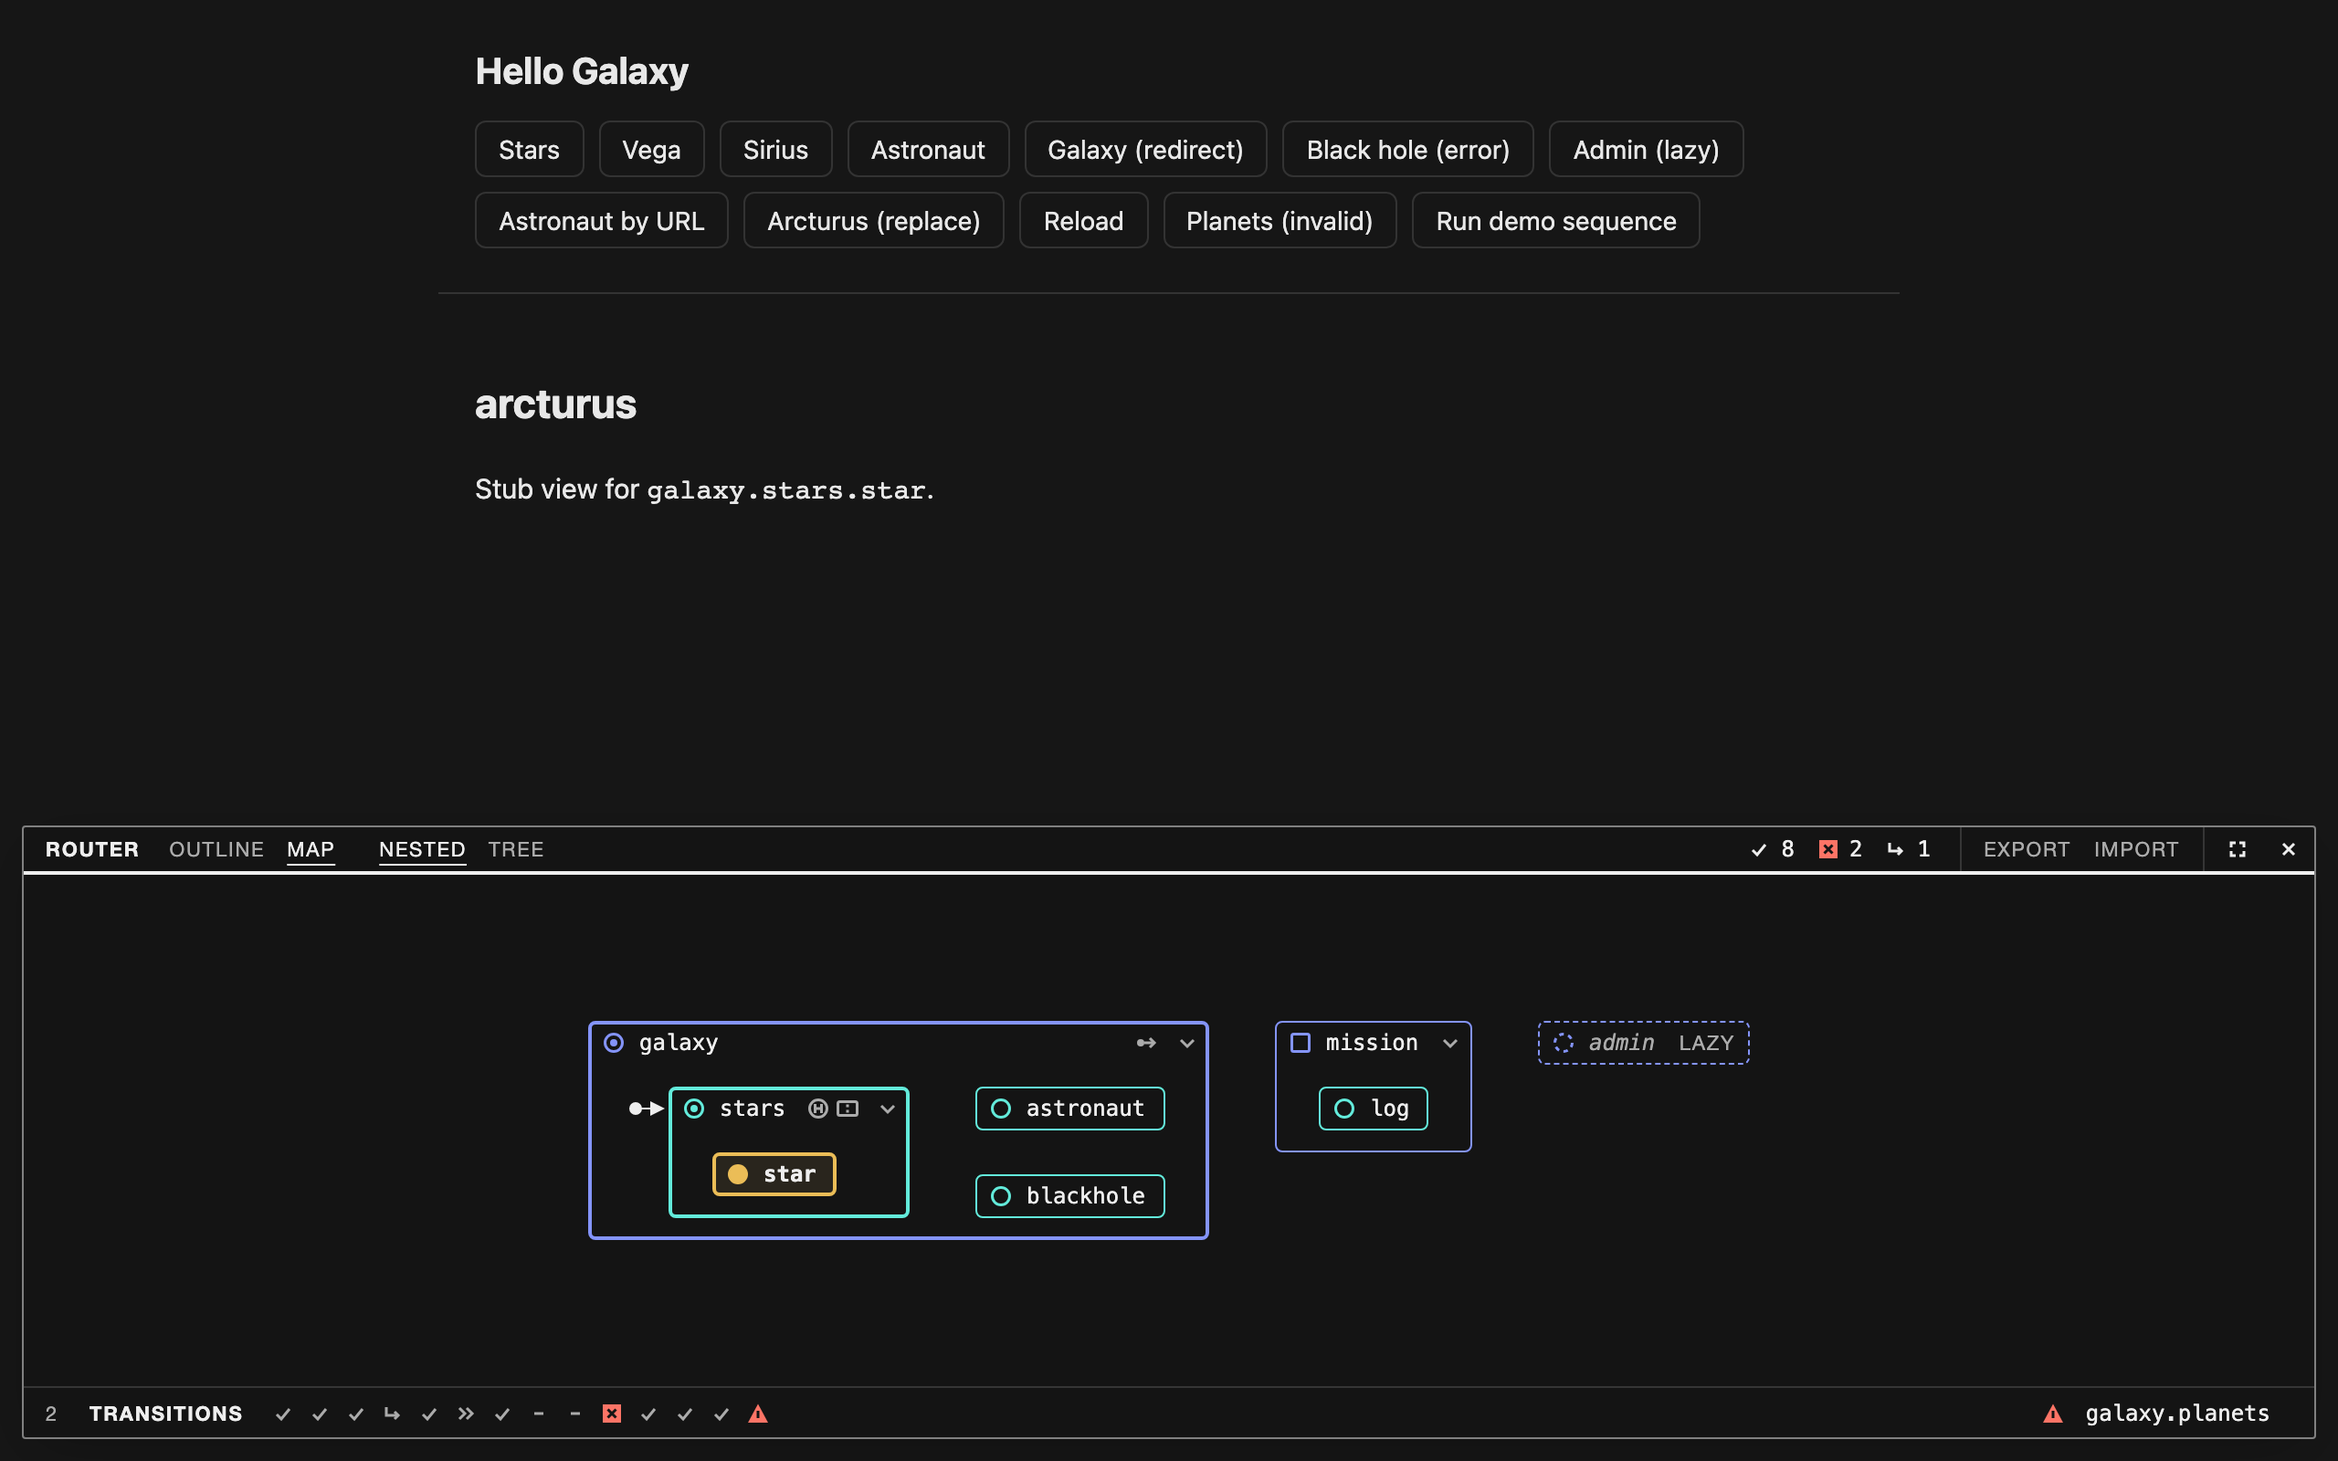
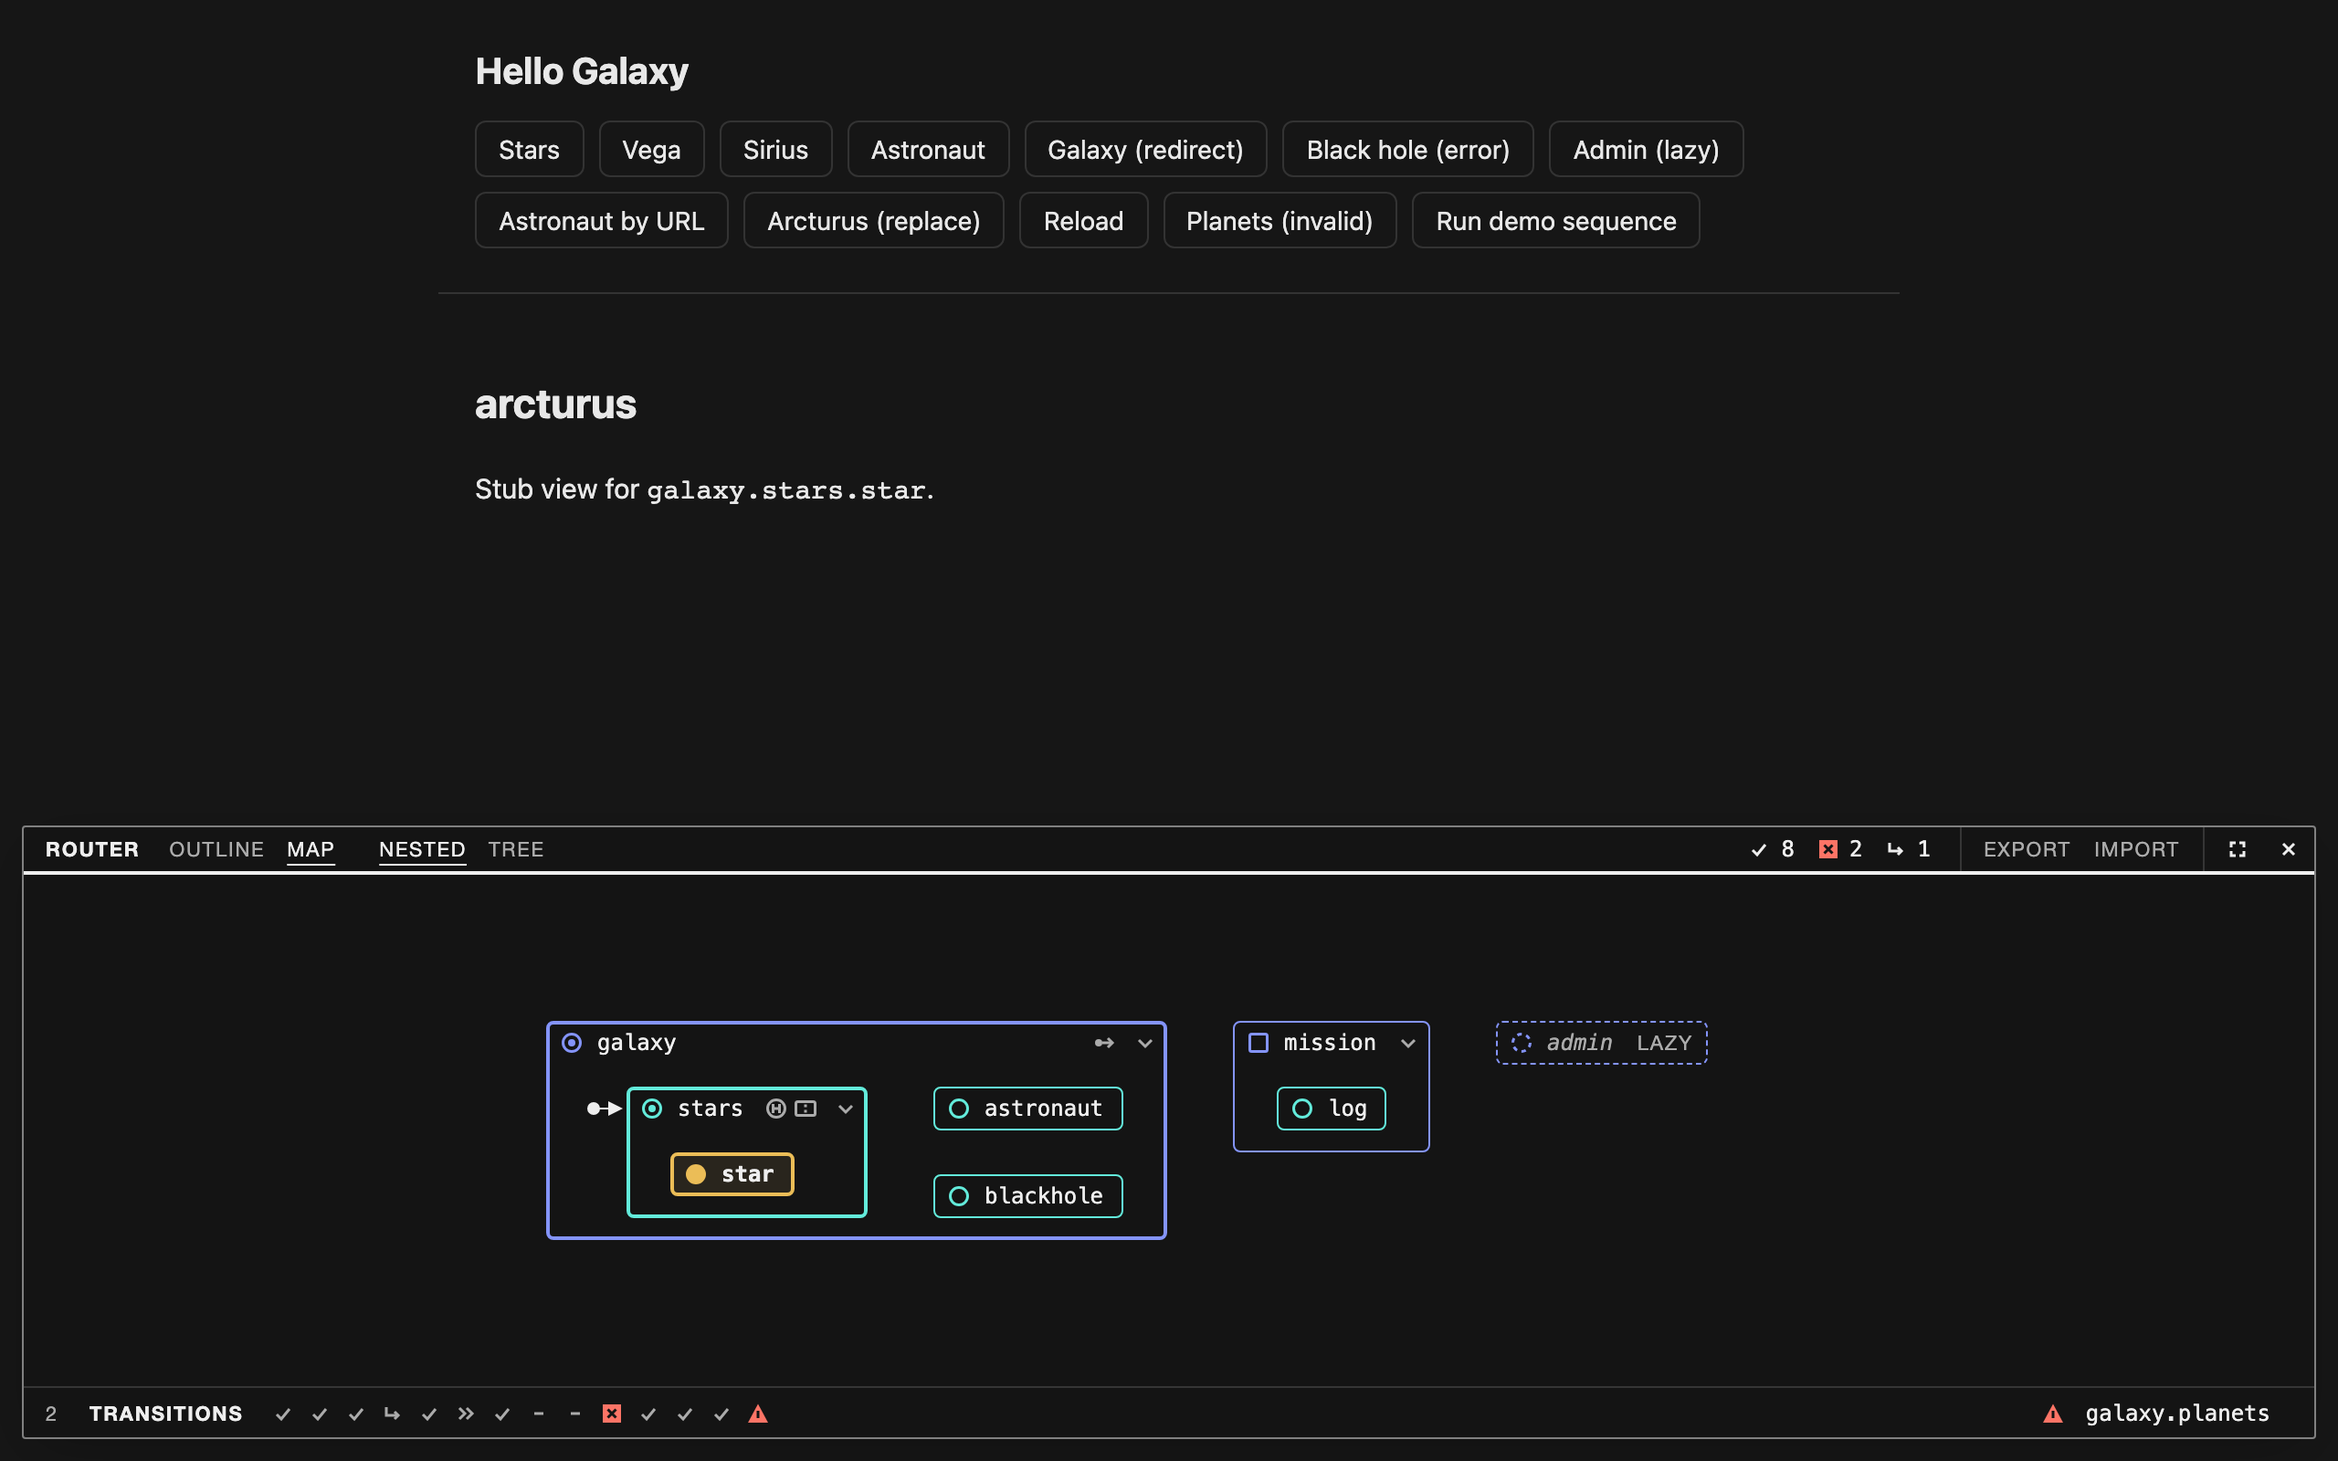
docs(ui-router-devtools): retake the proposal screenshots and record the Map as it is now
map.md records the maximised steps, the popover's column, the size motion,
and what a fix for busy leaves and compound-to-child edges needs. The capture
script gains a maximised Map shot.

🤖 Generated with [Claude Code](https://claude.com/claude-code)

diff --git a/packages/ui-router-devtools/scripts/shots.ts b/packages/ui-router-devtools/scripts/shots.ts
@@ -137,6 +137,19 @@ const shots: Shot[] = [
     },
   },
   {
+    name: '3-max-map-state',
+    width: 1280,
+    open: true,
+    axe: true,
+    setup: async (page) => {
+      await showMap(page);
+      await page.locator(`${TAG} .icon.max`).click();
+      await page
+        .locator(`${TAG} .box[data-name="galaxy.stars.star"] > .head`)
+        .click({ position: { x: 14, y: 12 } });
+    },
+  },
+  {
     name: '2-dock-outline-fault',
     width: 1280,
     open: true,

diff --git a/docs/visualizer-proposal/map.md b/docs/visualizer-proposal/map.md
@@ -14,18 +14,22 @@ direction, and [devtools scope](devtools.md) the package's wider plans.
   one edge per pair of states, with line weight for the count.
 - **The diagram owns the panel.** On the Map tab in the wide dock the
   transition log is a strip of outcome glyphs, and the inspector is a popover
-  beside the diagram. The maximised panel shows the full log and inspector
-  below the diagram. On the sheets the Map takes the Outline's place above the
-  log.
+  beside the diagram. The maximised panel gives the diagram three fifths of
+  its height and shows the full log and inspector below it. On the sheets the
+  Map takes the Outline's place above the log.
 - **Boxes keep their natural size.** A leaf is its label and padding. A
   compound shrink-wraps its children. Nothing stretches to fill the viewport;
-  the diagram sits in the middle of it.
+  the diagram sits in the room [left for it](#the-inspector-popover).
+- **A selection moves nothing.** Selecting a state draws its edges and shows
+  the inspector, and every box stays where it was, so nothing shifts under
+  the pointer.
 - **Colour is identity, until a transition is in focus.** See
   [Modes](#modes).
 - **Red means fault.** A failed transition's edge and the state that failed
   are red, and no identity colour is near it.
-- **Type stays at 12px.** The layout may shrink to the caption size and no
-  further, and it never enlarges.
+- **Type is 12px in the dock.** The layout may shrink to the caption size and
+  no further. The maximised panel is the one place it enlarges, in whole
+  steps of the [spacing system](#spacing), never by a scale factor.
 
 ## Modes
 
@@ -134,9 +138,11 @@ The packer places every box, and CSS only draws them:
    prefers a split that fits the viewport to a nearer one that does not.
 4. A compound is its header, its rows and its padding, and no wider than the
    wider of the two needs.
-5. If the root still does not fit, step down the ladder below.
-6. The diagram sits in the middle of the viewport at that size. The room left
-   over frames it evenly; no box takes it.
+5. If the root still does not fit, step down the ladder below. In the
+   maximised panel, first step up it.
+6. The diagram sits in the middle of the viewport at that size, or as near
+   the middle as leaves [the popover's column](#the-inspector-popover) free.
+   The room left over frames it; no box takes it.
 
 The rule comes from ELK's `rectpacking`, which keeps input order, stacks short
 boxes and aims for an aspect ratio. Area-weighted treemaps do not fit: they
@@ -148,7 +154,8 @@ tree and the stress tree, in the dock (1230 by 256) and the maximised panel
 (1230 by 372): no leaf is wider than its label needs or than the maximum; no
 compound is wider than its header and rows need; in every compound the boxes
 cover at least half of the rows' bounding box; and the diagram fits, with a
-width over height between 0.6 and 1.6 times the viewport's.
+width over height between 0.6 and 1.6 times the viewport's. The two larger
+steps are held to the second and third, for the sample tree.
 
 ### Spacing
 
@@ -178,14 +185,40 @@ middle of a 24px one.
 At the caption-size rung the header is 20px, the padding 16px and 8px, the
 leaf gaps 16px and 12px, and the group gaps 24px and 16px.
 
+The maximised panel has two larger steps, each the table above in proportion
+to its type, still on the 4px grid:
+
+| Step  | Type | Header | Compound padding | Leaf gaps | Group gaps | Leaf inline size |
+| ----- | ---- | ------ | ---------------- | --------- | ---------- | ---------------- |
+| Dock  | 12px | 24px   | 24px, 12px       | 24px      | 36px       | 56 to 208px      |
+| Roomy | 16px | 32px   | 32px, 16px       | 32px      | 48px       | 76 to 276px      |
+| Large | 20px | 40px   | 40px, 20px       | 40px      | 60px       | 92 to 348px      |
+
+A header's glyphs, marks, padding and fold button grow by the same factor,
+from one custom property on the diagram. Edge strokes, arrowheads and the
+router's margins stay as they are in the dock.
+
+A scale on the whole diagram was weighed against the steps. A scale fills any
+viewport exactly, and gives type and borders at sizes that are on no grid; the
+steps keep every distance a multiple of 4px and the type at three sizes. A
+different target shape for the packer was also weighed: the root already aims
+for the viewport's shape, and the sample trees are wider than the maximised
+viewport is, so a taller target would give more rows of boxes that are still
+the dock's size.
+
 ### When it does not fit
 
-The layout starts with every compound open and stops at the first step that
-fits. Each step keeps the ones before it:
+In the maximised panel the layout first tries the large step and then the
+roomy one, with every compound open, and takes the first that fits with a
+tenth of the viewport's width and height to spare. The dock never enlarges.
 
-1. Collapse compounds off the active path and outside the selection to one box
-   with a count of the states inside. Opening or closing a box by hand
-   overrides this for that box.
+Otherwise the layout starts at the dock's step with every compound open and
+stops at the first step that fits. Each step keeps the ones before it:
+
+1. Collapse compounds off the active path to one box with a count of the
+   states inside. A selected transition's states and the ancestors of a
+   selected state stay open; the selected box itself stays as it is drawn.
+   Opening or closing a box by hand overrides this for that box.
 2. Merge a compound with its only visible child, when that child is also a
    compound, into one header.
 3. Truncate a name segment longer than 24 characters in the middle. The full
@@ -194,8 +227,9 @@ fits. Each step keeps the ones before it:
 5. Fall back to the node-link tree.
 
 A milder step is restored only once it fits with about 10% of the inline size
-to spare, so a resize does not flicker between layouts. A change to the tree
-or the selection starts again from the top. Below 560px of inline size the
+to spare, so a resize does not flicker between layouts. A change to the tree,
+or a selection that opens a compound, starts again from the top; a selection
+that opens nothing keeps the layout it has. Below 560px of inline size the
 nested layout is not offered: at that width it is the Outline with borders.
 
 Re-rooting at the deepest compound on the active path, with its ancestors as a
@@ -211,24 +245,44 @@ Pan, zoom and a minimap are left out.
 
 ### The inspector popover
 
-The popover is placed from the packed rects. It tries beside the selected
-box, level with its top or its bottom, then the corners of the panel, and
-takes the place that covers least: a drawn edge or a box an edge ends at
-counts twenty times a pill. When the diagram and the popover fit side by
-side, the diagram moves over to the middle of the room the popover leaves, so
-neither covers the other. In a dock too narrow for both, the popover covers
-pills before it covers an edge.
+The popover is 296px wide, and its column, with a 12px margin either side, is
+320px. Whether the dock has that column to spare is decided by the diagram's
+size, before anything is selected:
+
+- **Room for a column either side:** the diagram is centred, and the popover
+  takes the column at the end.
+- **Room for one column:** the diagram sits as near the middle as leaves the
+  column free at the end, so the room at its start shrinks first. The popover
+  takes that column.
+- **No room:** the diagram is centred and the popover goes over it. It tries
+  beside the selected box, level with its top or its bottom, then the corners
+  of the panel, then every 12px along the panel's top and bottom, and takes
+  the place that covers least. The selected box counts a thousand times a
+  pill, and a drawn edge or a box an edge ends at twenty times, so the
+  selection is covered only when no place clears it.
+
+In the first two the popover is always in the same place, at the end of the
+dock, and neither a first selection nor a change of selection moves a box.
+Reserving the column at every width was weighed and left out: the stress tree
+needs the dock's whole width. So was a start-aligned diagram, which leaves
+the same column free and reads as a document, not a drawing.
 
 ## Motion
 
 A box changes place and size between modes, and the eye follows a state
 through the change by its colour and its movement.
 
-- **Boxes move.** A re-pack on resize, a collapse or an expand, a change of
-  rung, the switch between nested boxes and the tree, and the dock becoming
-  the maximised panel all move the same states. Each state's element starts
-  where the state was and eases to its new place in 200ms, on
-  `--uird-ease-out`. A box that was not drawn before fades in.
+- **Boxes move and change size.** A re-pack on resize, a collapse or an
+  expand, a change of rung and the switch between nested boxes and the tree
+  all move the same states. Each state's element starts where and as large
+  as the state was and eases to its new place and size in 200ms, on
+  `--uird-ease-out`. A box that was not drawn before fades in, and is
+  clipped by its parent until the parent has grown to hold it. A header
+  keeps its final width through the change, so no name is elided on the way.
+- **The diagram changes size as one object.** Between the dock and the
+  maximised panel the type step changes, so the whole diagram scales from
+  its old outline to its new one, about its own middle on the block axis,
+  and its boxes ride it. The panel itself changes size at once.
 - **Edges draw.** An edge draws in from its start in 240ms and withdraws
   toward its end in 160ms. After a re-pack the edges wait the 200ms the boxes
   take, and then draw, so none is stranded beside a moving box.
@@ -240,8 +294,13 @@ The mechanism is FLIP on the Web Animations API. Before a render that changes
 the Map's geometry the panel reads where each state's element is drawn, and
 after it reads where each now is and animates a `transform` from the
 difference. A child's shift is taken relative to its parent's, since it rides
-its parent's transform. Only `transform` and `opacity` animate, and nothing
-waits on an animation. An interrupted move starts from what is on screen: the
+its parent's transform. Every element is read before any is animated. A box
+whose size changed also animates `width` and `height`; the boxes are
+absolutely placed, so that layout is theirs alone. Opening and closing a
+compound in the stress tree's dock, with 20 to 26 boxes drawn, the frame that
+re-packs took 21 to 27ms and every frame after it 16.7ms, in headless
+Chromium. A change of type step animates one `transform` with a scale on the
+diagram's root instead. Nothing waits on an animation. An interrupted move starts from what is on screen: the
 first read is of the drawn position, mid-flight included, and the earlier
 animation is cancelled before the second.
 
@@ -329,6 +388,20 @@ transition, 2px for two or three and 3px for four or more.
 
 The constraint solver `libavoid` uses for nudging, crossing minimisation and
 labels on lines are left out.
+
+Two things read poorly and are left as they are. A leaf with four or more
+edges is a knot: a 24px end holds two ports, the pairs take a side each, and
+their leads share the 12px gap under the parent's header. An edge between a
+compound and its own child is a stub from the child to the nearest border of
+the compound, met from inside. Lining that port up with the child was tried:
+the stub is then straight, and it moves to whichever border is nearest, which
+pushed the self-loop into the corner the other edges already use. A fix needs
+three things together: one trunk for the edges that share an end, so a leaf
+has one port per neighbour instead of one per edge; a port budget that
+counts a leaf's four sides before any edge is routed, instead of relieving a
+side after the fact; and a template for the compound and child pair that
+ends on the compound's header, which is the part of it that reads as the
+state.
 
 ### WebAssembly
 

diff --git a/docs/visualizer-proposal/README.md b/docs/visualizer-proposal/README.md
@@ -269,8 +269,9 @@ is used.
   panel says is sans (`"Helvetica Neue", Helvetica, Arial, sans-serif`): the
   brand, tabs, section headings, field labels, buttons and tags. Two sizes:
   12px on a 16px line, and 11px for uppercase captions tracked 0.08em and for
-  the reason under a row. Two weights: 400 and 700. Flush left; only times
-  align right.
+  the reason under a row. The maximised Map alone sets its state names at
+  16px or 20px. Two weights: 400 and 700. Flush left; only times align right.
+  A duration's unit follows its number at a third of a space, muted.
 - **Grid.** A 4px unit, 12px columns, 24px rows (32px for coarse pointers).
   Section titles, outline labels and inspector keys share one text edge.
 - **Rules, not boxes.** A 2px ink rule under the title strip, one hairline
